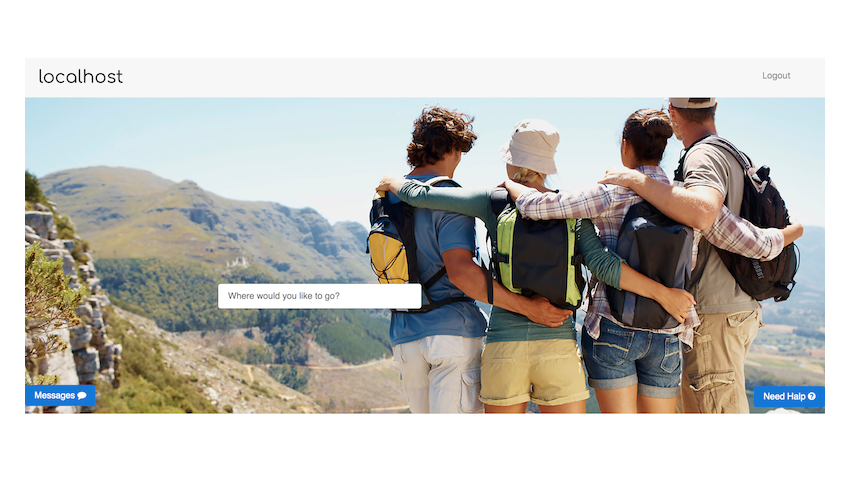
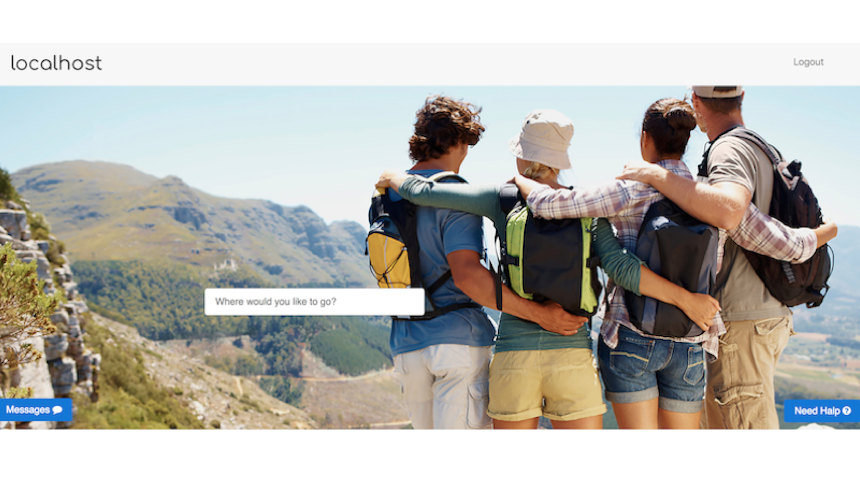
Edited some of the images to correct the sizes and added more styles to the project page

diff --git a/scss/projectStyles.scss b/scss/projectStyles.scss
@@ -63,6 +63,10 @@
   height: 200px;
 }
 
+.carousel-item > img {
+  background-color: $ml-sandbox;
+}
+
 .carousel-item {
   text-align: center;
   width: 100%;
@@ -76,8 +80,12 @@
 }
 
 .carousel-caption > p {
+  background-color: white;
+  padding: 0.3em;
+  border-radius: 10px;
+  opacity: 0.8;
   font-family: 'Roboto', sans-serif;
-  color: $warning;
+  color: $secondary;
 }
 
 .carousel-caption > h3 {

diff --git a/scss/variables.scss b/scss/variables.scss
@@ -7,5 +7,6 @@ $warning: #d79922; /* burnt orange */
 $danger: #d79922; /* burnt orange */
 $light: #c5cbe3; /* light blue */
 $dark: #4056a1; /* light beige */
+$ml-sandbox: #73879B; /* ml-sandbox bg slate */
 
 $body-bg: #c5cbe3;

diff --git a/scss/projectsStyles.scss b/scss/projectsStyles.scss
@@ -32,6 +32,10 @@
   border-radius: 0.3rem !important;
 }
 
+.card > img {
+  background-color: $ml-sandbox;
+}
+
 .card-title {
   font-family: 'Shadows Into Light', cursive;
   margin-top: 0.7em;
